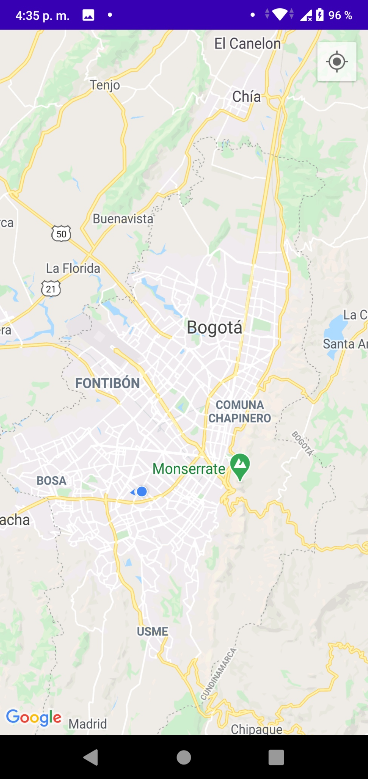
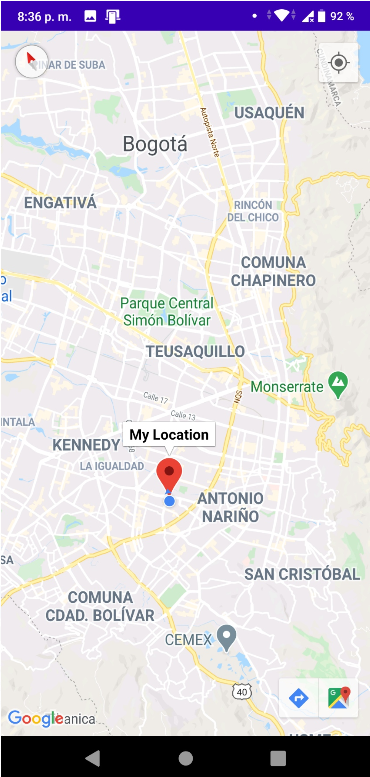
Parte 3

diff --git a/app/src/main/java/edu/eci/ieti/googlemapapi/MapsActivity.java b/app/src/main/java/edu/eci/ieti/googlemapapi/MapsActivity.java
@@ -7,9 +7,13 @@ import androidx.fragment.app.FragmentActivity;
 
 import android.Manifest;
 import android.content.Context;
+import android.content.Intent;
 import android.content.pm.PackageManager;
 import android.location.Location;
 import android.os.Bundle;
+import android.os.Handler;
+import android.view.View;
+import android.widget.TextView;
 
 import com.google.android.gms.location.FusedLocationProviderClient;
 import com.google.android.gms.location.LocationServices;
@@ -31,6 +35,10 @@ public class MapsActivity extends FragmentActivity implements OnMapReadyCallback
 
     private final int ACCESS_LOCATION_PERMISSION_CODE = 44;
 
+    private Location mCurrentLocation;
+
+    private TextView address;
+
     @Override
     protected void onCreate(Bundle savedInstanceState) {
         super.onCreate(savedInstanceState);
@@ -45,6 +53,8 @@ public class MapsActivity extends FragmentActivity implements OnMapReadyCallback
         // Obtain the SupportMapFragment and get notified when the map is ready to be used.
         mapFragment = (SupportMapFragment) getSupportFragmentManager().findFragmentById(R.id.map);
         mapFragment.getMapAsync(this);
+
+        address = (TextView) findViewById( R.id.address );
 
     }
 
@@ -88,34 +98,67 @@ public class MapsActivity extends FragmentActivity implements OnMapReadyCallback
                             public void onSuccess(Location location) {
                                 // Got last known location. In some rare situations this can be null.
                                 if (location != null) {
-                                    addMarkerAndZoom( location, "My Location", 15 );
+                                    addMarkerAndZoom(location, "My Location", 15);
                                 }
                             }
                         });
-            }
-            else
-            {
-                ActivityCompat.requestPermissions( this, permissions, ACCESS_LOCATION_PERMISSION_CODE );
+            } else {
+                ActivityCompat.requestPermissions(this, permissions, ACCESS_LOCATION_PERMISSION_CODE);
             }
         }
     }
 
-    public static boolean hasPermissions(Context context, String[] permissions )
-    {
-        for ( String permission : permissions )
-        {
-            if ( ContextCompat.checkSelfPermission( context, permission ) == PackageManager.PERMISSION_DENIED )
-            {
+    public static boolean hasPermissions(Context context, String[] permissions) {
+        for (String permission : permissions) {
+            if (ContextCompat.checkSelfPermission(context, permission) == PackageManager.PERMISSION_DENIED) {
                 return false;
             }
         }
         return true;
     }
 
-    public void addMarkerAndZoom( Location location, String title, int zoom  )
-    {
-        LatLng myLocation = new LatLng( location.getLatitude(), location.getLongitude() );
-        googleMap.addMarker( new MarkerOptions().position( myLocation ).title( title ) );
-        googleMap.moveCamera( CameraUpdateFactory.newLatLngZoom( myLocation, zoom ) );
+    public void addMarkerAndZoom(Location location, String title, int zoom) {
+        LatLng myLocation = new LatLng(location.getLatitude(), location.getLongitude());
+        googleMap.addMarker(new MarkerOptions().position(myLocation).title(title));
+        googleMap.moveCamera(CameraUpdateFactory.newLatLngZoom(myLocation, zoom));
+
+        mCurrentLocation = location;
+    }
+
+    public void onFindAddressClicked(View view) {
+        startFetchAddressIntentService();
+    }
+
+    public void startFetchAddressIntentService() {
+        if (ActivityCompat.checkSelfPermission(this, Manifest.permission.ACCESS_FINE_LOCATION) != PackageManager.PERMISSION_GRANTED && ActivityCompat.checkSelfPermission(this, Manifest.permission.ACCESS_COARSE_LOCATION) != PackageManager.PERMISSION_GRANTED) {
+            return;
+        }
+        fusedLocationClient.getLastLocation()
+                .addOnSuccessListener(this, new OnSuccessListener<Location>() {
+                    @Override
+                    public void onSuccess(Location location) {
+                        if (location != null) {
+                            AddressResultReceiver addressResultReceiver = new AddressResultReceiver(new Handler());
+                            addressResultReceiver.setAddressResultListener(new AddressResultListener() {
+                                @Override
+                                public void onAddressFound(final String address) {
+                                    runOnUiThread(new Runnable() {
+                                        @Override
+                                        public void run() {
+                                            MapsActivity.this.address.setText(address);
+                                            MapsActivity.this.address.setVisibility(View.VISIBLE);
+                                        }
+                                    });
+
+
+                                }
+                            });
+                            Intent intent = new Intent(MapsActivity.this, FetchAddressIntentService.class);
+                            intent.putExtra(FetchAddressIntentService.RECEIVER, addressResultReceiver);
+                            intent.putExtra(FetchAddressIntentService.LOCATION_DATA_EXTRA, location);
+                            startService(intent);
+                        }
+                    }
+                });
     }
 }

diff --git a/app/src/main/java/edu/eci/ieti/googlemapapi/FetchAddressIntentService.java b/app/src/main/java/edu/eci/ieti/googlemapapi/FetchAddressIntentService.java
@@ -1,0 +1,113 @@
+package edu.eci.ieti.googlemapapi;
+
+import android.app.IntentService;
+import android.content.Intent;
+import android.location.Address;
+import android.location.Geocoder;
+import android.location.Location;
+import android.os.Bundle;
+import android.support.v4.os.ResultReceiver;
+import android.util.Log;
+
+import java.io.IOException;
+import java.util.List;
+import java.util.Locale;
+
+public class FetchAddressIntentService
+        extends IntentService
+{
+    public static final int SUCCESS_RESULT = 0;
+
+    public static final int FAILURE_RESULT = 1;
+
+    public static final String PACKAGE_NAME = "com.google.android.gms.location.sample.locationaddress";
+
+    public static final String RECEIVER = PACKAGE_NAME + ".RECEIVER";
+
+    public static final String RESULT_DATA_KEY = PACKAGE_NAME + ".RESULT_DATA_KEY";
+
+    public static final String LOCATION_DATA_EXTRA = PACKAGE_NAME + ".LOCATION_DATA_EXTRA";
+
+    private static final String TAG = FetchAddressIntentService.class.getSimpleName();
+
+    protected ResultReceiver resultReceiver;
+
+    /**
+     * Creates an IntentService.  Invoked by your subclass's constructor.
+     */
+    public FetchAddressIntentService()
+    {
+        super( "Fetch_address_intent_service" );
+    }
+
+
+    @Override
+    protected void onHandleIntent( Intent intent )
+    {
+        String errorMessage = "";
+
+        resultReceiver = intent.getParcelableExtra( RECEIVER );
+
+        // Check if receiver was properly registered.
+        if ( resultReceiver == null )
+        {
+            Log.wtf( TAG, "No receiver received. There is nowhere to send the results." );
+            return;
+        }
+
+        // Get the location passed to this service through an extra.
+        Location location = intent.getParcelableExtra( LOCATION_DATA_EXTRA );
+
+        // Make sure that the location data was really sent over through an extra. If it wasn't,
+        // send an error error message and return.
+        if ( location == null )
+        {
+            errorMessage = getString( R.string.no_location_data_provided );
+            Log.wtf( TAG, errorMessage );
+            deliverResultToReceiver( FAILURE_RESULT, errorMessage );
+            return;
+        }
+
+        try
+        {
+            Geocoder geocoder = new Geocoder( this, Locale.getDefault() );
+            List<Address> addresses = geocoder.getFromLocation( location.getLatitude(), location.getLongitude(), 1 );
+
+            if ( addresses == null || addresses.size() == 0 )
+            {
+                if ( errorMessage.isEmpty() )
+                {
+                    errorMessage = getString( R.string.no_address_found );
+                    Log.e( TAG, errorMessage );
+                }
+                deliverResultToReceiver( FAILURE_RESULT, errorMessage );
+            }
+            else
+            {
+                String address = addresses.get( 0 ).getAddressLine( 0 );
+                Log.i( TAG, getString( R.string.address_found ) + address );
+                deliverResultToReceiver( SUCCESS_RESULT, address );
+            }
+        }
+        catch ( IOException ioException )
+        {
+            errorMessage = getString( R.string.service_not_available );
+            Log.e( TAG, errorMessage, ioException );
+        }
+        catch ( IllegalArgumentException illegalArgumentException )
+        {
+            errorMessage = getString( R.string.invalid_lat_long_used );
+            Log.e( TAG, errorMessage + ". " +
+                    "Latitude = " + location.getLatitude() +
+                    ", Longitude = " + location.getLongitude(), illegalArgumentException );
+        }
+    }
+
+    private void deliverResultToReceiver( int resultCode, String message )
+    {
+        Bundle bundle = new Bundle();
+        bundle.putString( RESULT_DATA_KEY, message );
+        resultReceiver.send( resultCode, bundle );
+    }
+
+}

diff --git a/app/src/main/java/edu/eci/ieti/googlemapapi/AddressResultReceiver.java b/app/src/main/java/edu/eci/ieti/googlemapapi/AddressResultReceiver.java
@@ -1,0 +1,39 @@
+package edu.eci.ieti.googlemapapi;
+
+import android.annotation.SuppressLint;
+import android.os.Bundle;
+import android.os.Handler;
+import android.support.v4.os.ResultReceiver;
+
+@SuppressLint( "ParcelCreator" )
+public class AddressResultReceiver
+        extends ResultReceiver
+{
+
+    private AddressResultListener addressResultListener;
+
+    public AddressResultReceiver( Handler handler )
+    {
+        super( handler );
+    }
+
+    public void setAddressResultListener( AddressResultListener addressResultListener )
+    {
+        this.addressResultListener = addressResultListener;
+    }
+
+    @Override
+    protected void onReceiveResult( int resultCode, Bundle resultData )
+    {
+        // Display the address string
+        // or an error message sent from the intent service.
+        String addressOutput = resultData.getString( FetchAddressIntentService.RESULT_DATA_KEY );
+
+        if ( resultCode == FetchAddressIntentService.SUCCESS_RESULT && addressResultListener != null )
+        {
+            addressResultListener.onAddressFound( addressOutput );
+        }
+
+    }
+
+}

diff --git a/app/src/main/java/edu/eci/ieti/googlemapapi/AddressResultListener.java b/app/src/main/java/edu/eci/ieti/googlemapapi/AddressResultListener.java
@@ -1,0 +1,10 @@
+package edu.eci.ieti.googlemapapi;
+
+import android.annotation.SuppressLint;
+import android.os.Bundle;
+import android.os.Handler;
+import android.support.v4.os.ResultReceiver;
+
+public interface AddressResultListener {
+    void onAddressFound( String address );
+}

diff --git a/README.md b/README.md
@@ -59,7 +59,9 @@ git clone https://github.com/Diego23p/IETI_14.git
 
 ![](/img/3.png)
 
+## Parte 3: Uso de la API de geolocalización y GoogleApiClient
 
+![](/img/4.png)
 
 
 
